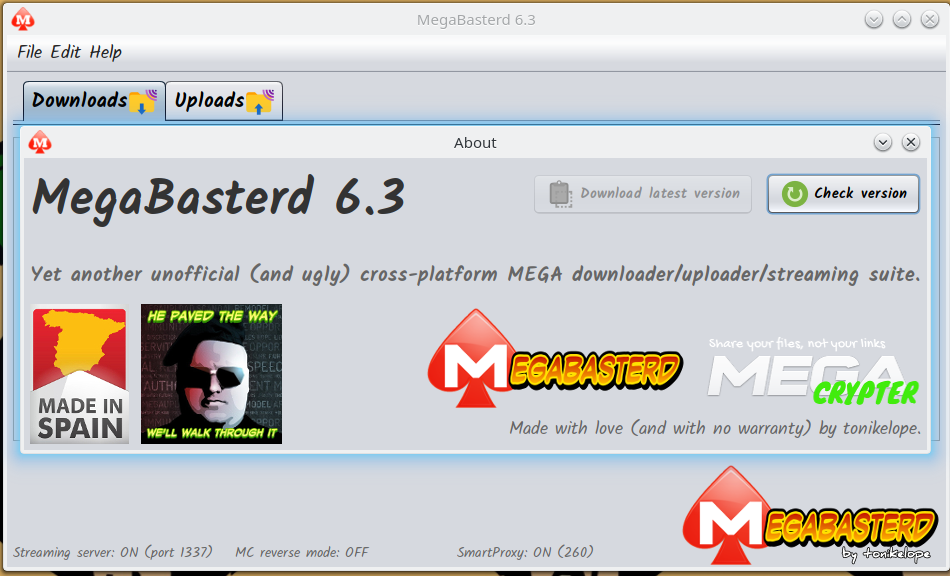
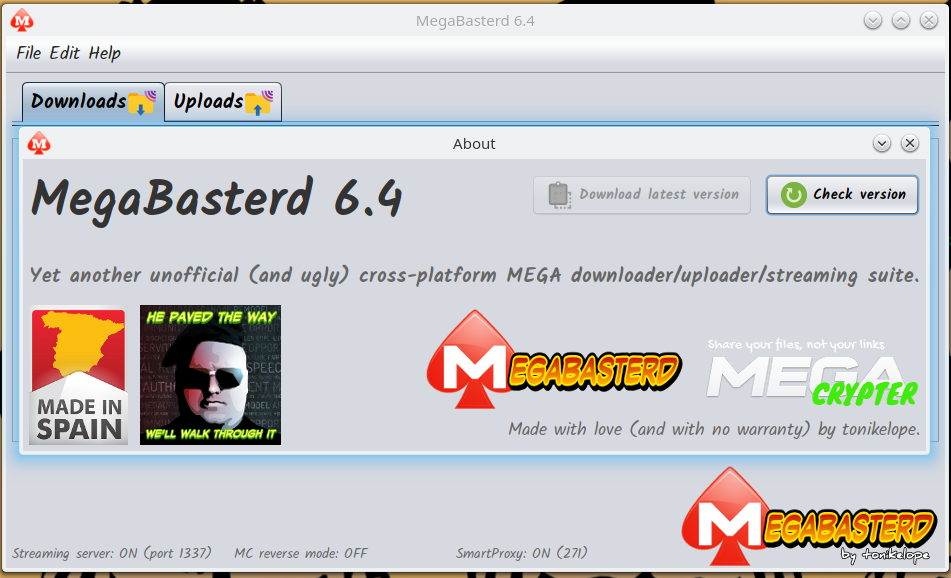
6.4
-Chunks temp dir added fix
-Auto close

diff --git a/src/main/java/com/tonikelope/megabasterd/ChunkManager.java b/src/main/java/com/tonikelope/megabasterd/ChunkManager.java
@@ -75,7 +75,7 @@ public final class ChunkManager implements Runnable, SecureSingleThreadNotifiabl
         _notified = false;
         _exit = false;
         _download = downloader;
-        _chunks_dir = _download.getDownload_path() + "/.mb_chunks_" + _download.getFile_name();
+        _chunks_dir = _create_chunks_temp_dir();
         _secure_notify_lock = new Object();
         _file_size = _download.getFile_size();
         _byte_file_key = initMEGALinkKey(_download.getFile_key());
@@ -92,8 +92,6 @@ public final class ChunkManager implements Runnable, SecureSingleThreadNotifiabl
 
             _bytes_written = _download.getProgress();
         }
-
-        _create_chunks_temp_dir();
 
         Logger.getLogger(getClass().getName()).log(Level.INFO, "{0} Chunkmanager hello LAST CHUNK WRITTEN -> [{1}] {2}...", new Object[]{Thread.currentThread().getName(), _last_chunk_id_written, _bytes_written});
 
@@ -135,10 +133,15 @@ public final class ChunkManager implements Runnable, SecureSingleThreadNotifiabl
         return _last_chunk_id_written;
     }
 
-    private void _create_chunks_temp_dir() {
+    private String _create_chunks_temp_dir() {
 
-        File chunks_temp_dir = new File(getChunks_dir());
+        File chunks_temp_dir = new File(_download.getDownload_path() + "/.mb_chunks_" + new File(_download.getFile_name()).getName());
+
         chunks_temp_dir.mkdirs();
+
+        System.out.println(chunks_temp_dir.getAbsolutePath());
+
+        return chunks_temp_dir.getAbsolutePath();
     }
 
     public void delete_chunks_temp_dir() {
@@ -162,7 +165,7 @@ public final class ChunkManager implements Runnable, SecureSingleThreadNotifiabl
             if (_file_size > 0) {
                 while (!_exit && (!_download.isStopped() || !_download.getChunkworkers().isEmpty()) && _bytes_written < _file_size) {
 
-                    File chunk_file = new File(getChunks_dir() + "/" + _download.getFile_name() + ".chunk" + String.valueOf(_last_chunk_id_written + 1));
+                    File chunk_file = new File(getChunks_dir() + "/" + new File(_download.getFile_name()).getName() + ".chunk" + String.valueOf(_last_chunk_id_written + 1));
 
                     while (chunk_file.exists() && chunk_file.canRead()) {
 
@@ -197,7 +200,7 @@ public final class ChunkManager implements Runnable, SecureSingleThreadNotifiabl
 
                         chunk_file.delete();
 
-                        chunk_file = new File(getChunks_dir() + "/" + _download.getFile_name() + ".chunk" + String.valueOf(_last_chunk_id_written + 1));
+                        chunk_file = new File(getChunks_dir() + "/" + new File(_download.getFile_name()).getName() + ".chunk" + String.valueOf(_last_chunk_id_written + 1));
                     }
 
                     if (!_exit && (!_download.isStopped() || !_download.getChunkworkers().isEmpty()) && _bytes_written < _file_size) {

diff --git a/src/main/java/com/tonikelope/megabasterd/MainPanel.java b/src/main/java/com/tonikelope/megabasterd/MainPanel.java
@@ -28,6 +28,8 @@ import java.sql.SQLException;
 import java.util.ArrayList;
 import java.util.Arrays;
 import java.util.HashMap;
+import java.util.Timer;
+import java.util.TimerTask;
 import java.util.UUID;
 import java.util.concurrent.ExecutorService;
 import static java.util.concurrent.Executors.newCachedThreadPool;
@@ -48,7 +50,7 @@ import javax.swing.UIManager;
  */
 public final class MainPanel {
 
-    public static final String VERSION = "6.3";
+    public static final String VERSION = "6.4";
     public static final int THROTTLE_SLICE_SIZE = 16 * 1024;
     public static final int DEFAULT_BYTE_BUFFER_SIZE = 16 * 1024;
     public static final int STREAMER_PORT = 1337;
@@ -252,6 +254,48 @@ public final class MainPanel {
         THREAD_POOL.execute((_stream_supervisor = new StreamThrottlerSupervisor(_limit_download_speed ? _max_dl_speed * 1024 : 0, _limit_upload_speed ? _max_up_speed * 1024 : 0, THROTTLE_SLICE_SIZE)));
 
         THREAD_POOL.execute((_clipboardspy = new ClipboardSpy()));
+
+        THREAD_POOL.execute(new Runnable() {
+            @Override
+            public void run() {
+
+                Object timer_lock = new Object();
+
+                Timer timer = new Timer();
+
+                TimerTask task = new TimerTask() {
+
+                    @Override
+                    public void run() {
+                        synchronized (timer_lock) {
+
+                            timer_lock.notify();
+                        }
+                    }
+                };
+
+                timer.schedule(task, 0, 5000);
+
+                while (true) {
+
+                    synchronized (timer_lock) {
+
+                        try {
+
+                            if (_download_manager.no_transferences() && _upload_manager.no_transferences() && (!_download_manager.getTransference_finished_queue().isEmpty() || !_upload_manager.getTransference_finished_queue().isEmpty()) && getView().getAuto_close_menu().isSelected()) {
+                                System.exit(0);
+                            }
+
+                            timer_lock.wait();
+                        } catch (InterruptedException ex) {
+                            Logger.getLogger(getClass().getName()).log(Level.SEVERE, null, ex);
+                        }
+                    }
+
+                }
+
+            }
+        });
 
         try {
             _streamserver = new KissVideoStreamServer(this);

diff --git a/src/main/java/com/tonikelope/megabasterd/MainPanelView.java b/src/main/java/com/tonikelope/megabasterd/MainPanelView.java
@@ -25,6 +25,7 @@ import static java.util.logging.Level.SEVERE;
 import java.util.logging.Logger;
 import javax.swing.ImageIcon;
 import javax.swing.JButton;
+import javax.swing.JCheckBoxMenuItem;
 import javax.swing.JComponent;
 import javax.swing.JLabel;
 import javax.swing.JMenuItem;
@@ -126,6 +127,10 @@ public final class MainPanelView extends javax.swing.JFrame {
 
     public JLabel getMc_reverse_status() {
         return mc_reverse_status;
+    }
+
+    public JCheckBoxMenuItem getAuto_close_menu() {
+        return auto_close_menu;
     }
 
     public void updateKissStreamServerStatus(final String status) {
@@ -294,6 +299,7 @@ public final class MainPanelView extends javax.swing.JFrame {
         clean_all_up_menu = new javax.swing.JMenuItem();
         jSeparator2 = new javax.swing.JPopupMenu.Separator();
         hide_tray_menu = new javax.swing.JMenuItem();
+        auto_close_menu = new javax.swing.JCheckBoxMenuItem();
         exit_menu = new javax.swing.JMenuItem();
         edit_menu = new javax.swing.JMenu();
         settings_menu = new javax.swing.JMenuItem();
@@ -547,6 +553,12 @@ public final class MainPanelView extends javax.swing.JFrame {
             }
         });
         file_menu.add(hide_tray_menu);
+
+        auto_close_menu.setFont(new java.awt.Font("Dialog", 0, 18)); // NOI18N
+        auto_close_menu.setText("Close MegaBasterd when all transfers finish");
+        auto_close_menu.setDoubleBuffered(true);
+        auto_close_menu.setIcon(new javax.swing.ImageIcon(getClass().getResource("/images/icons8-cancel-30.png"))); // NOI18N
+        file_menu.add(auto_close_menu);
 
         exit_menu.setFont(new java.awt.Font("Dialog", 0, 18)); // NOI18N
         exit_menu.setIcon(new javax.swing.ImageIcon(getClass().getResource("/images/icons8-shutdown-30.png"))); // NOI18N
@@ -1215,6 +1227,7 @@ public final class MainPanelView extends javax.swing.JFrame {
 
     // Variables declaration - do not modify//GEN-BEGIN:variables
     private javax.swing.JMenuItem about_menu;
+    private javax.swing.JCheckBoxMenuItem auto_close_menu;
     private javax.swing.JMenuItem clean_all_down_menu;
     private javax.swing.JMenuItem clean_all_up_menu;
     private javax.swing.JButton close_all_finished_down_button;

diff --git a/src/main/java/com/tonikelope/megabasterd/ChunkDownloader.java b/src/main/java/com/tonikelope/megabasterd/ChunkDownloader.java
@@ -232,11 +232,11 @@ public class ChunkDownloader implements Runnable, SecureSingleThreadNotifiable {
 
                         } else {
 
-                            chunk_file = new File(_download.getChunkmanager().getChunks_dir() + "/" + _download.getFile_name() + ".chunk" + chunk_id);
+                            chunk_file = new File(_download.getChunkmanager().getChunks_dir() + "/" + new File(_download.getFile_name()).getName() + ".chunk" + chunk_id);
 
                             if (!chunk_file.exists() || chunk_file.length() != chunk_size) {
 
-                                tmp_chunk_file = new File(_download.getChunkmanager().getChunks_dir() + "/" + _download.getFile_name() + ".chunk" + chunk_id + ".tmp");
+                                tmp_chunk_file = new File(_download.getChunkmanager().getChunks_dir() + "/" + new File(_download.getFile_name()).getName() + ".chunk" + chunk_id + ".tmp");
 
                                 try (InputStream is = new ThrottledInputStream(con.getInputStream(), _download.getMain_panel().getStream_supervisor()); FileOutputStream tmp_chunk_file_os = new FileOutputStream(tmp_chunk_file)) {
 

diff --git a/src/main/java/com/tonikelope/megabasterd/TransferenceManager.java b/src/main/java/com/tonikelope/megabasterd/TransferenceManager.java
@@ -83,6 +83,10 @@ abstract public class TransferenceManager implements Runnable, SecureSingleThrea
         _transference_preprocess_queue = new ConcurrentLinkedQueue<>();
     }
 
+    public boolean no_transferences() {
+        return getTransference_preprocess_queue().isEmpty() && getTransference_provision_queue().isEmpty() && getTransference_waitstart_queue().isEmpty() && getTransference_running_list().isEmpty();
+    }
+
     public boolean isPaused_all() {
         return _paused_all;
     }

diff --git a/src/main/java/com/tonikelope/megabasterd/LabelTranslatorSingleton.java b/src/main/java/com/tonikelope/megabasterd/LabelTranslatorSingleton.java
@@ -262,6 +262,7 @@ public final class LabelTranslatorSingleton {
         _addTranslation("Streaming server: ON (port ", "Servidor de streaming: ON (puerto ");
         _addTranslation("MC reverse mode: ON (port ", "MC reverse mode: ON (puerto ");
         _addTranslation("Joining file chunks, please wait...", "Juntando chunks, por favor espera...");
+        _addTranslation("Close MegaBasterd when all transfers finish", "Cerrar MegaBasterd cuando todas las transferencias terminen");
 
     }
 
